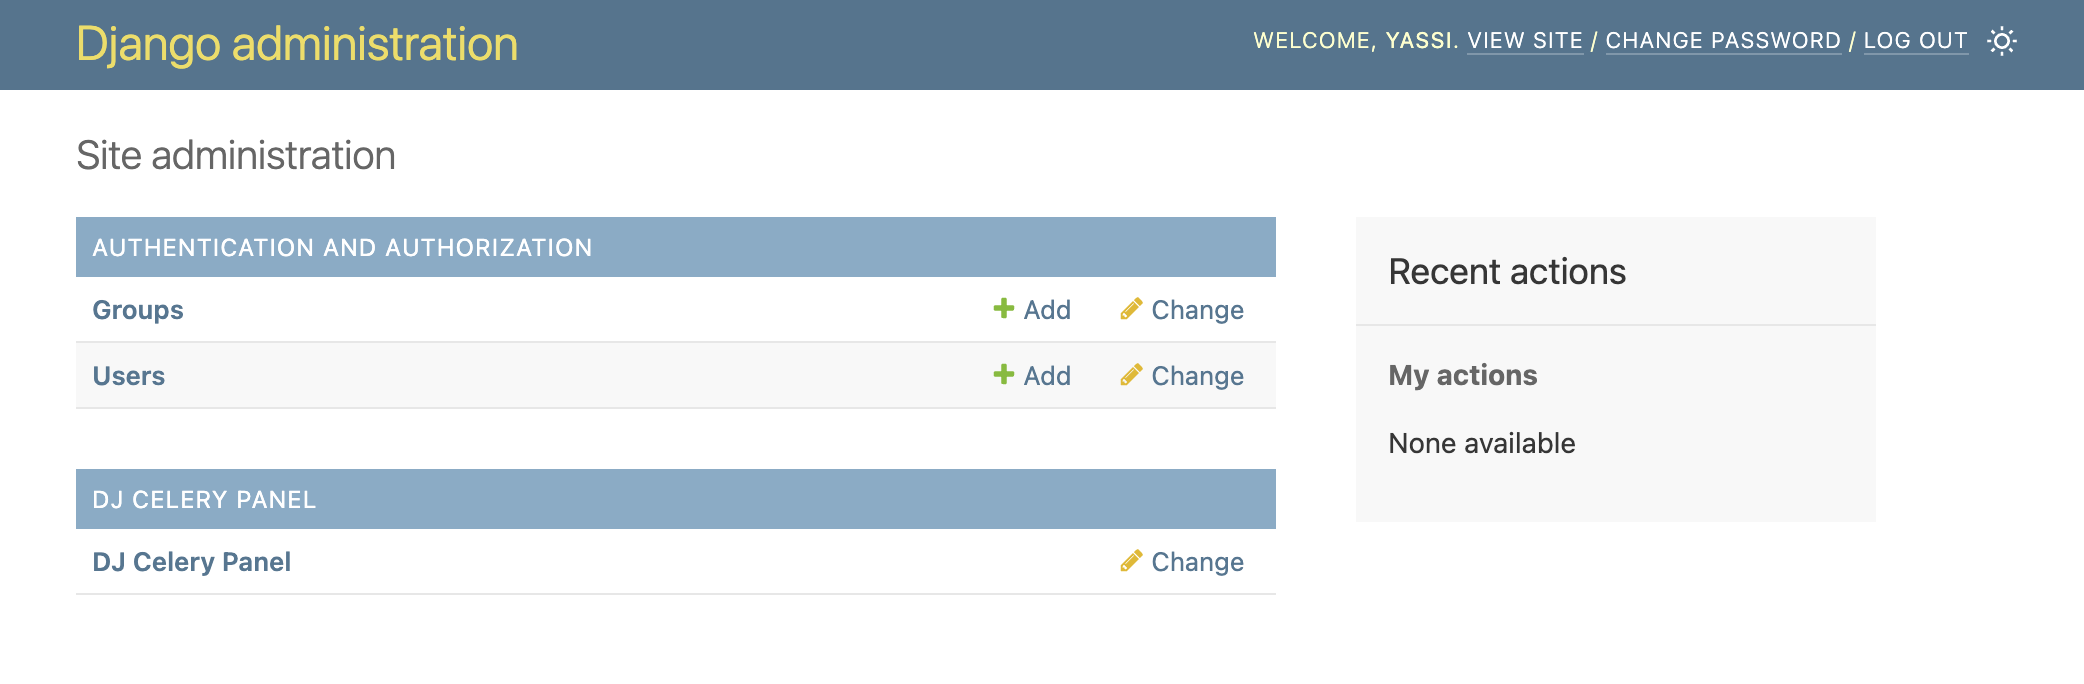
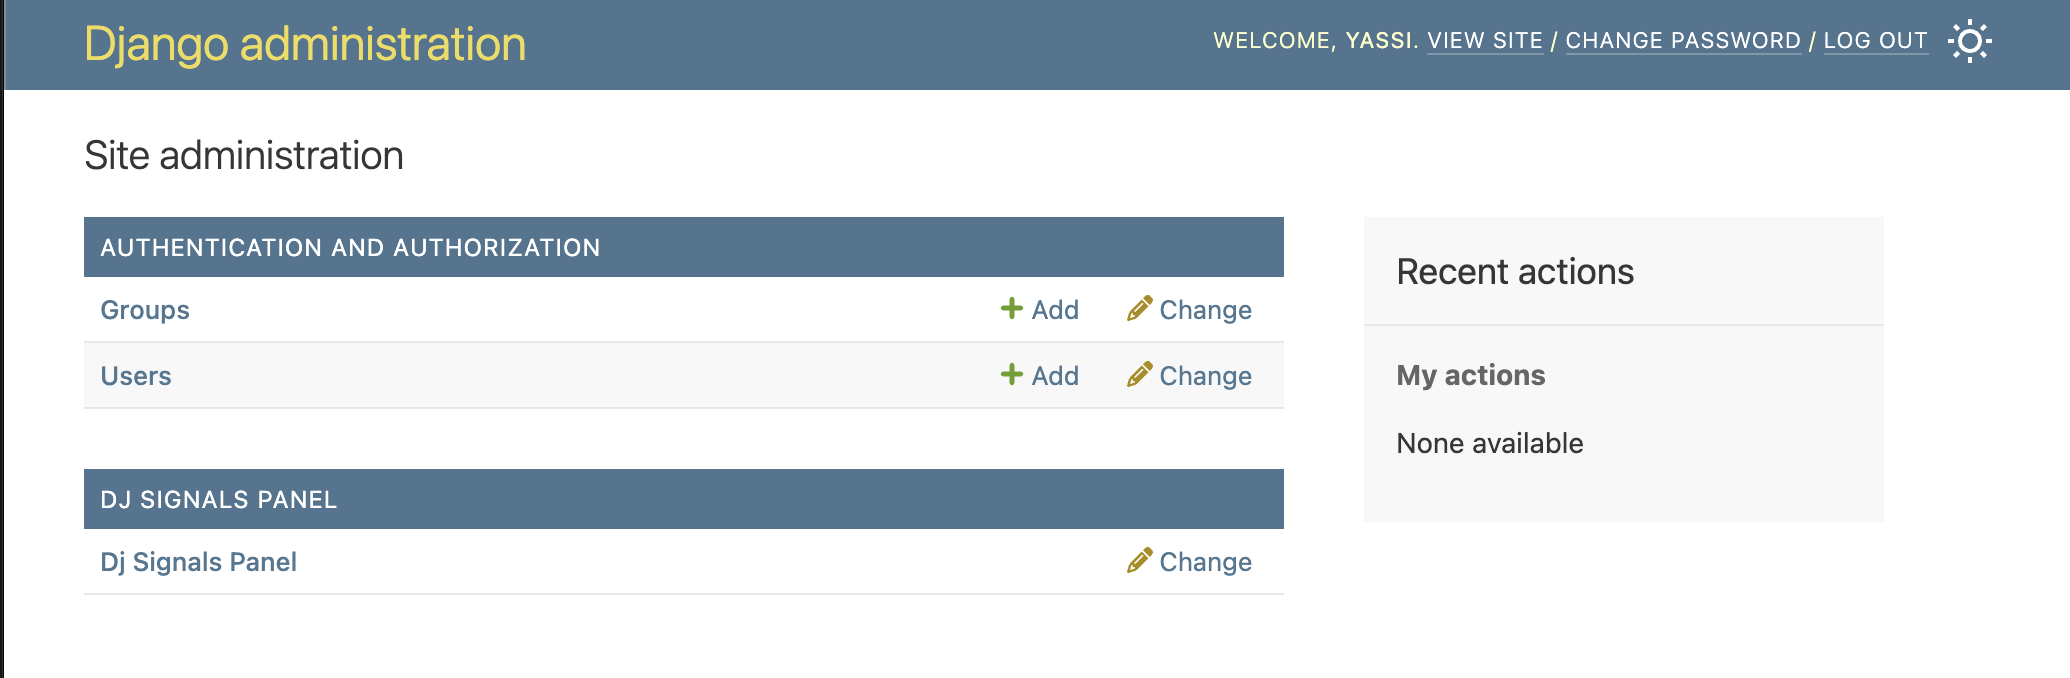
signals panel documentation and readme polishes (#1)
* add images of signal panel screens

* update readme with images and screen descriptions

* further document signal settings

* add note to readme about control room compatability

* update mkdocs

---------

diff --git a/docs/configuration.md b/docs/configuration.md
@@ -1,38 +1,50 @@
 # Configuration
 
-Dj Signals Panel currently works out of the box with minimal configuration.
-
-## Basic Setup
-
-The only required configuration is adding the app to your `INSTALLED_APPS` and including the URLs in your URL configuration.
-
-See the [Installation](installation.md) guide for setup instructions.
-
-## URLs Configuration
+Dj Signals Panel works out of the box with no required configuration. All options are set via a `DJ_SIGNALS_PANEL_SETTINGS` dict in your Django settings.
 
 ```python
-# urls.py
-urlpatterns = [
-    path('admin/dj-signals-panel/', include('dj_signals_panel.urls')),  # Custom path
-    path('admin/', admin.site.urls),
-]
+DJ_SIGNALS_PANEL_SETTINGS = {
+    'SHOW_SOURCE': False,
+    'SIGNAL_MODULES': [],
+    'LOAD_DEFAULT_CSS': True,
+    'EXTRA_CSS': [],
+}
 ```
 
-## Security
+## Settings Reference
 
-Dj Signals Panel uses Django's built-in admin authentication:
+### `SHOW_SOURCE`
 
-- Only staff users (`is_staff=True`) can access the panel
-- All views require authentication via `@staff_member_required`
-- No additional security configuration needed
+**Type:** `bool`  
+**Default:** `False`  
+**Description:** When `True`, each receiver row on the signal detail page includes an expandable **View Source** section that renders the receiver's source code with syntax highlighting.
 
-## CSS Customization
+```python
+DJ_SIGNALS_PANEL_SETTINGS = {
+    'SHOW_SOURCE': True,
+}
+```
+
+### `SIGNAL_MODULES`
+
+**Type:** `list[str]`  
+**Default:** `[]`  
+**Description:** Additional Python module paths to include in signal discovery, on top of what is found automatically. Useful when your signals are defined in modules that are not picked up by default.
+
+```python
+DJ_SIGNALS_PANEL_SETTINGS = {
+    'SIGNAL_MODULES': [
+        'myapp.signals',
+        'otherapp.events',
+    ],
+}
+```
 
 ### `LOAD_DEFAULT_CSS`
 
 **Type:** `bool`  
 **Default:** `True`  
-**Description:** Whether to load the built-in Signals Panel stylesheet. Set to `False` to use your own styles from scratch.
+**Description:** Whether to load the built-in Signals Panel stylesheet. Set to `False` to provide your own styles from scratch.
 
 ### `EXTRA_CSS`
 
@@ -44,7 +56,6 @@ Static file paths are **relative to your app's `static/` subdirectory** (same co
 
 ```python
 DJ_SIGNALS_PANEL_SETTINGS = {
-    'LOAD_DEFAULT_CSS': True,
     'EXTRA_CSS': [
         # File lives at: myapp/static/myapp/css/overrides.css
         'myapp/css/overrides.css',
@@ -53,3 +64,21 @@ DJ_SIGNALS_PANEL_SETTINGS = {
     ],
 }
 ```
+
+## URLs Configuration
+
+```python
+# urls.py
+urlpatterns = [
+    path('admin/dj-signals-panel/', include('dj_signals_panel.urls')),
+    path('admin/', admin.site.urls),
+]
+```
+
+## Security
+
+Dj Signals Panel uses Django's built-in admin authentication:
+
+- Only staff users (`is_staff=True`) can access the panel
+- All views require authentication via `@staff_member_required`
+- No additional security configuration needed

diff --git a/README.md b/README.md
@@ -1,15 +1,22 @@
+[![Django Control Room Panel](https://img.shields.io/badge/Django%20Control%20Room-Panel-0c4b33?logo=django)](https://github.com/yassi/dj-control-room)
 [![Tests](https://github.com/yassi/dj-signals-panel/actions/workflows/test.yml/badge.svg)](https://github.com/yassi/dj-signals-panel/actions/workflows/test.yml)
 [![codecov](https://codecov.io/gh/yassi/dj-signals-panel/branch/main/graph/badge.svg)](https://codecov.io/gh/yassi/dj-signals-panel)
 [![PyPI version](https://badge.fury.io/py/dj-signals-panel.svg)](https://badge.fury.io/py/dj-signals-panel)
 [![Python versions](https://img.shields.io/pypi/pyversions/dj-signals-panel.svg)](https://pypi.org/project/dj-signals-panel/)
 [![License: MIT](https://img.shields.io/badge/License-MIT-green.svg)](https://opensource.org/licenses/MIT)
+[![Downloads](https://img.shields.io/pypi/dm/dj-signals-panel.svg)](https://pypi.org/project/dj-signals-panel/)
 
 
 
 
-# Dj Signals Panel
+# Django Signals Panel
 
-Display registered Django signals and receivers, showing what fires and where.
+See every Django signal and receiver, and where they fire. Right from the Django admin.
+
+**Compatible with [dj-control-room](https://github.com/yassi/dj-control-room).** Register this panel in the Control Room to manage it from a centralized dashboard.
+
+- **Official site:** [djangocontrolroom.com](https://djangocontrolroom.com)
+- **Project repo:** [dj-control-room](https://github.com/yassi/dj-control-room)
 
 
 ## Docs
@@ -18,7 +25,13 @@ Display registered Django signals and receivers, showing what fires and where.
 
 ## Features
 
-- **TBD**: Add your main features here
+- **Signal discovery** - automatically discovers all registered Django signals across your project and installed apps
+- **Receiver inspection** - lists every connected receiver for each signal, including function name, module, file location, sender, and dispatch UID
+- **Source code viewer** - inline syntax-highlighted source for each receiver, directly in the admin
+- **Search & filter** - search signals by name, module, or app; filter by app with a dropdown
+- **Summary stats** - at-a-glance counts for total signals, total receivers, and signals with no receivers
+- **Dark mode support** - respects Django admin's built-in dark/light mode toggle
+- **No migrations required** - purely read-only introspection, zero database changes
 
 
 ### Project Structure
@@ -42,15 +55,43 @@ dj-signals-panel/
 
 
 
+## Django Control Room
+
+Dj Signals Panel works great on its own, and it also pairs seamlessly as a panel inside [Django Control Room](https://github.com/yassi/dj-control-room) - a centralized dashboard that brings all your Django admin panels together in one place.
+
+```bash
+pip install dj-control-room dj-signals-panel
+```
+
+Visit **[djangocontrolroom.com](https://djangocontrolroom.com)** to learn more.
+
 ## Screenshots
 
 ### Django Admin Integration
-Seamlessly integrated into your Django admin interface. A new section for dj-signals-panel
-will appear in the same places where your models appear.
 
-**NOTE:** This application does not actually introduce any model or migrations.
+Seamlessly integrated into your Django admin interface. A **DJ SIGNALS PANEL** section appears alongside your models - no migrations required.
 
-![Admin Home](https://raw.githubusercontent.com/yassi/dj-signals-panel/main/images/admin_home.png)
+| Light | Dark |
+|-------|------|
+| ![Admin Home – light](https://raw.githubusercontent.com/yassi/dj-signals-panel/main/images/admin_home.png) | ![Admin Home – dark](https://raw.githubusercontent.com/yassi/dj-signals-panel/main/images/admin_home_dark.png) |
+
+### Signal List & Search
+
+Browse all registered signals with summary stats (total signals, total receivers, signals with no receivers). Search by name, module, or app, and filter by app using the dropdown.
+
+| Light | Dark |
+|-------|------|
+| ![Signal List – light](https://raw.githubusercontent.com/yassi/dj-signals-panel/main/images/admin_signal_search.png) | ![Signal List – dark](https://raw.githubusercontent.com/yassi/dj-signals-panel/main/images/admin_signal_search_dark.png) |
+
+### Signal Detail
+
+Drill into any signal to see its metadata and every connected receiver - including function name, module, file path, sender, and dispatch UID. Expand **View Source** to see syntax-highlighted source code inline.
+
+> **Note:** The source code viewer is opt-in. Set `SHOW_SOURCE: True` in `DJ_SIGNALS_PANEL_SETTINGS` to enable it. Use `SIGNAL_MODULES` to add extra modules to signal discovery.
+
+| Light | Dark |
+|-------|------|
+| ![Signal Detail – light](https://raw.githubusercontent.com/yassi/dj-signals-panel/main/images/admin_signal_detail.png) | ![Signal Detail – dark](https://raw.githubusercontent.com/yassi/dj-signals-panel/main/images/admin_signal_detail_dark.png) |
 
 
 ## Installation
@@ -83,8 +124,11 @@ INSTALLED_APPS = [
 Add any custom configuration to your Django settings if needed:
 
 ```python
-# Optional: Add custom settings for dj_signals_panel
 DJ_SIGNALS_PANEL_SETTINGS = {
+    # Set True to render syntax-highlighted source code for each receiver
+    'SHOW_SOURCE': False,
+    # Extra modules to include in signal discovery (additive, not restrictive)
+    'SIGNAL_MODULES': [],       # e.g. ['myapp.signals', 'otherapp.events']
     'LOAD_DEFAULT_CSS': True,   # Set False to skip built-in styles
     # Static paths are relative to app's static/ dir (e.g. 'myapp/css/overrides.css'
     # for a file at myapp/static/myapp/css/overrides.css). Full URLs also accepted.

diff --git a/docs/index.md b/docs/index.md
@@ -4,15 +4,52 @@ Display registered Django signals and receivers, showing what fires and where.
 
 ## Overview
 
-Dj Signals Panel is a Django admin extension.
+Dj Signals Panel is a Django admin extension that gives you full visibility into your project's signal landscape - which signals are registered, which receivers are connected, and what that receiver code actually does.
 
-**Status:** This project is currently in early development.
+It works great standalone, and also pairs seamlessly as a panel inside [Django Control Room](https://github.com/yassi/dj-control-room) - a centralized dashboard that brings all your Django admin panels together in one place. Visit **[djangocontrolroom.com](https://djangocontrolroom.com)** to learn more.
 
 ## Quick Links
 
 - [Installation](installation.md)
 - [Configuration](configuration.md)
 - [Development](development.md)
+
+## Features
+
+- **Signal discovery** - automatically discovers all registered Django signals across your project and installed apps
+- **Receiver inspection** - lists every connected receiver for each signal, including function name, module, file location, sender, and dispatch UID
+- **Source code viewer** - inline syntax-highlighted source for each receiver, directly in the admin (opt-in via `SHOW_SOURCE`)
+- **Additive module discovery** - use `SIGNAL_MODULES` to include signals from modules not picked up automatically
+- **Search & filter** - search signals by name, module, or app; filter by app with a dropdown
+- **Summary stats** - at-a-glance counts for total signals, total receivers, and signals with no receivers
+- **Dark mode support** - respects Django admin's built-in dark/light mode toggle
+- **No migrations required** - purely read-only introspection, zero database changes
+
+## Screenshots
+
+### Django Admin Integration
+
+A **DJ SIGNALS PANEL** section appears in the Django admin alongside your models.
+
+| Light | Dark |
+|-------|------|
+| ![Admin Home – light](https://raw.githubusercontent.com/yassi/dj-signals-panel/main/images/admin_home.png) | ![Admin Home – dark](https://raw.githubusercontent.com/yassi/dj-signals-panel/main/images/admin_home_dark.png) |
+
+### Signal List & Search
+
+Browse all registered signals with summary stats. Search by name, module, or app and filter by app using the dropdown.
+
+| Light | Dark |
+|-------|------|
+| ![Signal List – light](https://raw.githubusercontent.com/yassi/dj-signals-panel/main/images/admin_signal_search.png) | ![Signal List – dark](https://raw.githubusercontent.com/yassi/dj-signals-panel/main/images/admin_signal_search_dark.png) |
+
+### Signal Detail
+
+Drill into any signal to see its metadata and every connected receiver. Expand **View Source** to see syntax-highlighted source code inline (requires `SHOW_SOURCE: True`).
+
+| Light | Dark |
+|-------|------|
+| ![Signal Detail – light](https://raw.githubusercontent.com/yassi/dj-signals-panel/main/images/admin_signal_detail.png) | ![Signal Detail – dark](https://raw.githubusercontent.com/yassi/dj-signals-panel/main/images/admin_signal_detail_dark.png) |
 
 ## Requirements
 
@@ -21,4 +58,4 @@ Dj Signals Panel is a Django admin extension.
 
 ## License
 
-MIT License - See [LICENSE](https://github.com/yassi/dj-signals-panel/blob/main/LICENSE) file for details.
+MIT License - see [LICENSE](https://github.com/yassi/dj-signals-panel/blob/main/LICENSE) for details.

diff --git a/docs/development.md b/docs/development.md
@@ -72,7 +72,8 @@ make test_local
 
 ```bash
 pytest tests/test_admin.py -v
-pytest tests/test_admin.py::TestAdminIntegration::test_celery_panel_appears_in_admin_index
+pytest tests/test_search_views.py -v
+pytest tests/test_detail_view.py -v
 ```
 
 ### With Coverage
@@ -86,15 +87,25 @@ pytest --cov=dj_signals_panel tests/
 ```
 dj-signals-panel/
 ├── dj_signals_panel/          # Main package
-│   ├── views.py              # Django views
+│   ├── admin.py              # Admin integration (registers the panel)
+│   ├── apps.py               # AppConfig
+│   ├── conf.py               # Settings and defaults
+│   ├── data.py               # Data-fetching logic
+│   ├── interfaces.py         # Typed data structures
+│   ├── models.py             # Placeholder model (no migrations)
+│   ├── panel.py              # Admin panel class
 │   ├── urls.py               # URL patterns
-│   ├── models.py             # Placeholder model
-│   ├── admin.py              # Admin integration
-│   └── templates/            # HTML templates
+│   ├── utils.py              # Utility helpers
+│   ├── views.py              # Django views
+│   ├── static/               # CSS and vendor assets
+│   ├── templates/            # HTML templates
+│   └── templatetags/         # Custom template tags
 ├── tests/                    # Test suite
 │   ├── base.py               # Test base class
+│   ├── conftest.py           # Pytest configuration
 │   ├── test_admin.py         # Admin integration tests
-│   └── conftest.py           # Pytest configuration
+│   ├── test_search_views.py  # Signal list/search view tests
+│   └── test_detail_view.py   # Signal detail view tests
 ├── example_project/          # Example Django project
 ├── docs/                     # Documentation
 └── Makefile                  # Development commands

diff --git a/docs/installation.md b/docs/installation.md
@@ -1,5 +1,7 @@
 # Installation
 
+> **Using Django Control Room?** Dj Signals Panel works as a panel inside [Django Control Room](https://github.com/yassi/dj-control-room). Install both and follow the Control Room setup guide at [djangocontrolroom.com](https://djangocontrolroom.com).
+
 ## 1. Install the Package
 
 ```bash
@@ -25,7 +27,7 @@ INSTALLED_APPS = [
 
 ## 3. Include URLs
 
-Add the Panel URLs to your main `urls.py`:
+Add the Panel URLs to your main `urls.py`. The path must be nested **under** the admin prefix:
 
 ```python
 from django.contrib import admin
@@ -37,13 +39,7 @@ urlpatterns = [
 ]
 ```
 
-## 4. Run Migrations
-
-```bash
-python manage.py migrate
-```
-
-## 5. Access the Panel
+## 4. Access the Panel
 
 1. Start your Django development server:
    ```bash
@@ -52,6 +48,8 @@ python manage.py migrate
 
 2. Navigate to `http://127.0.0.1:8000/admin/`
 
-3. Look for the "DJ SIGNALS PANEL" section
+3. Look for the **DJ SIGNALS PANEL** section - click **Dj Signals Panel** to open it
 
-That's it!
+> **Note:** Dj Signals Panel does not introduce any models or database tables. No migrations are needed.
+
+That's it! See [Configuration](configuration.md) for optional settings like enabling the source code viewer.